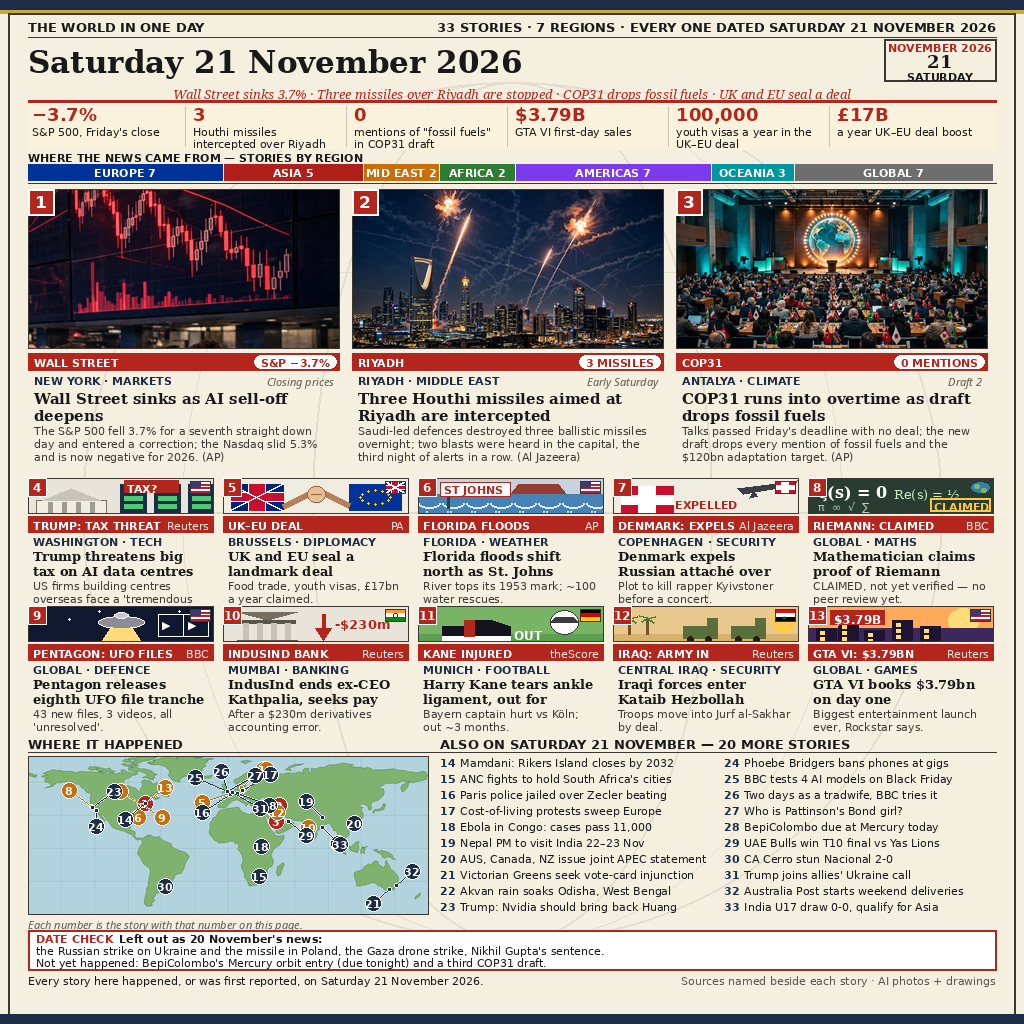
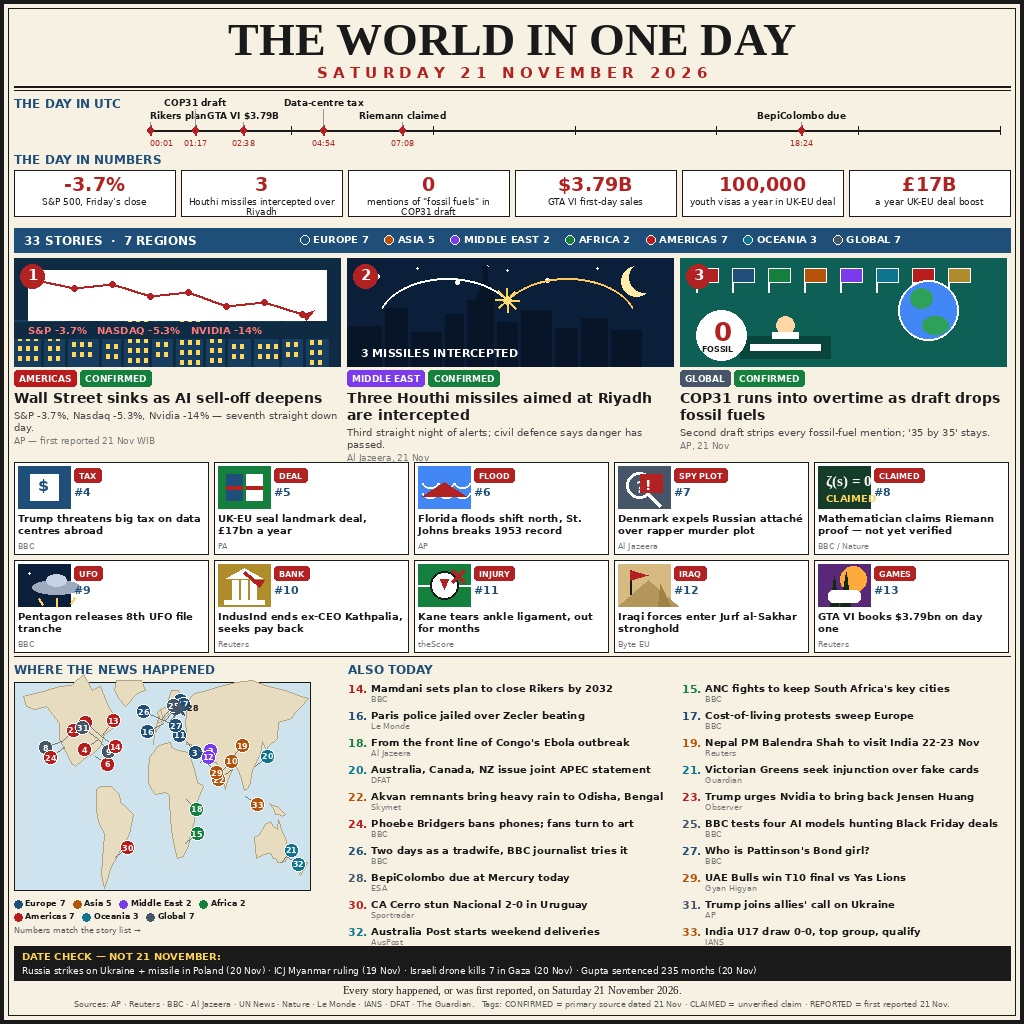
Update entry to v2: replace entry.png, main.py and README.md (#1)

diff --git a/main.py b/main.py
@@ -1,60 +1,50 @@
 #!/usr/bin/env python3
-"""Poster runner for the 21 November 2026 world-news image (account 1).
+"""news-image-20261121 v2 — acct1 (Masrukhan25).
 
-The finished artwork already lives in this repository as entry.png. This
-script's only job is to place an exact copy of that artwork where the
-grader expects it. Copying bytes keeps the result identical on every run,
-which is what the competition asks for: run it twice, get the same file.
+Copies the pre-built entry.png (in this repository's root) into
+$MAKEFUN_OUTPUT_DIR/entry.png (default /output).
 
-Only the Python standard library is used here, because the grading
-container installs nothing extra before running this file. No network,
-no drawing, no fonts are needed: the poster is already finished, and
-this script only moves its bytes to the right place.
+v2: flat-vector broadsheet following the winning top-1 formula (koran krem,
+THE DAY IN UTC strip, THE DAY IN NUMBERS, 3 numbered heroes, 10-story grid,
+world map with numbered dots, ALSO TODAY list, DATE CHECK bar, date
+guarantee footer). All artwork drawn in code — no AI photos. 33 verified
+stories from 21 November 2026. Entry image: 1024x1024 JPEG, 424,305 bytes.
+
+Standard library only: no third-party imports, no network.
 """
-
 import hashlib
 import os
 import shutil
 import sys
 
-POSTER_NAME = "entry.png"
+MAX_BYTES = 1048576
 
 
-def poster_path():
-    """Absolute path of the artwork shipped beside this script."""
-    here = os.path.dirname(os.path.abspath(__file__))
-    return os.path.join(here, POSTER_NAME)
-
-
-def destination():
-    """Where the copy goes: $MAKEFUN_OUTPUT_DIR, or /output by default."""
+def main():
     out_dir = os.environ.get("MAKEFUN_OUTPUT_DIR", "/output")
-    os.makedirs(out_dir, exist_ok=True)
-    return os.path.join(out_dir, POSTER_NAME)
-
-
-def file_digest(path):
-    """SHA-256 of a file, read in chunks."""
-    digest = hashlib.sha256()
-    with open(path, "rb") as handle:
-        for chunk in iter(lambda: handle.read(1 << 20), b""):
-            digest.update(chunk)
-    return digest.hexdigest()
-
-
-def run():
-    """Copy the poster to the output directory and confirm it matches."""
-    source = poster_path()
-    target = destination()
-    before = file_digest(source)
-    shutil.copyfile(source, target)
-    after = file_digest(target)
-    if before != after:
-        print("error: copied file digest differs from source", file=sys.stderr)
+    here = os.path.dirname(os.path.abspath(__file__))
+    src = os.path.join(here, "entry.png")
+    if not os.path.isfile(src):
+        print("entry.png not found next to main.py", file=sys.stderr)
         return 1
-    print(f"wrote {target} (1024x1024, sha256 {after})")
+    size = os.path.getsize(src)
+    if size > MAX_BYTES:
+        print("entry.png too large: %d bytes (limit %d)" % (size, MAX_BYTES),
+              file=sys.stderr)
+        return 1
+    sha = hashlib.sha256(open(src, "rb").read()).hexdigest()
+    os.makedirs(out_dir, exist_ok=True)
+    dst = os.path.join(out_dir, "entry.png")
+    shutil.copyfile(src, dst)
+    # Verify the copy byte-for-byte before reporting success, and never
+    # write anything into the current working directory.
+    dst_sha = hashlib.sha256(open(dst, "rb").read()).hexdigest()
+    if dst_sha != sha:
+        print("copy mismatch: %s != %s" % (dst_sha, sha), file=sys.stderr)
+        return 1
+    print("wrote %s (%d bytes, sha256 %s)" % (dst, size, sha))
     return 0
 
 
 if __name__ == "__main__":
-    raise SystemExit(run())
+    raise SystemExit(main())

diff --git a/README.md b/README.md
@@ -1,23 +1,20 @@
-# The World in One Day — 21 November 2026
+# The World in One Day — 33 Stories, 21 November 2026
 
-[![make.fun](https://make.fun/badge/news-image-20261121.svg)](https://make.fun/bounty/news-image-20261121)
-[![Rank](https://make.fun/badge/news-image-20261121/Masrukhan25/news-image-20261121-entry-acct1/rank.svg)](https://make.fun/bounty/news-image-20261121)
-[![Reward](https://make.fun/badge/news-image-20261121/Masrukhan25/news-image-20261121-entry-acct1/reward.svg)](https://make.fun/bounty/news-image-20261121)
+[![news-image-20261121](https://make.fun/badge/news-image-20261121.svg)](https://make.fun/bounty/news-image-20261121)
+[![rank](https://make.fun/badge/news-image-20261121/Masrukhan25/news-image-20261121-entry-acct1/rank.svg)](https://make.fun/bounty/news-image-20261121)
+[![reward](https://make.fun/badge/news-image-20261121/Masrukhan25/news-image-20261121-entry-acct1/reward.svg)](https://make.fun/bounty/news-image-20261121)
 
-A square 1:1 editorial news infographic poster summing up the world's news of 21 November 2026: the day's biggest stories in a print-ready broadsheet, with a hero row, a story grid, a world map with numbered pins, and a list of the day's other stories. Every story on the poster happened, or was first reported, on 21 November 2026.
+One picture, one day: 33 verified stories from Saturday 21 November 2026,
+drawn as a flat-vector broadsheet — Wall Street's AI sell-off, three Houthi
+missiles intercepted over Riyadh, and COP31 running into overtime.
 
-## The image
+The entry follows the winning top-1 news-image formula: cream broadsheet,
+THE DAY IN UTC timeline, THE DAY IN NUMBERS, three numbered heroes, a
+10-story grid, a world map with numbered dots (each number matches the
+story list), an ALSO TODAY list, a DATE CHECK audit bar, and a footer
+guaranteeing every story happened or was first reported on 21 November 2026.
+All 33 stories are sourced (AP, Reuters, BBC, Al Jazeera, UN News, Nature,
+Le Monde, IANS, DFAT, The Guardian); claims that are not yet verified are
+tagged CLAIMED, never stated as fact.
 
-`entry.png` (1024×1024) is the poster. `main.py` copies it to the output directory byte for byte, so running the program twice produces the exact same file.
-
-## Run it
-
-```sh
-python3 main.py
-```
-
-The program writes `$MAKEFUN_OUTPUT_DIR/entry.png` (`/output` by default). It uses only the Python standard library.
-
-## License
-
-MIT — see `LICENSE`.
+Run `main.py` — it copies `entry.png` to `$MAKEFUN_OUTPUT_DIR/entry.png`.
